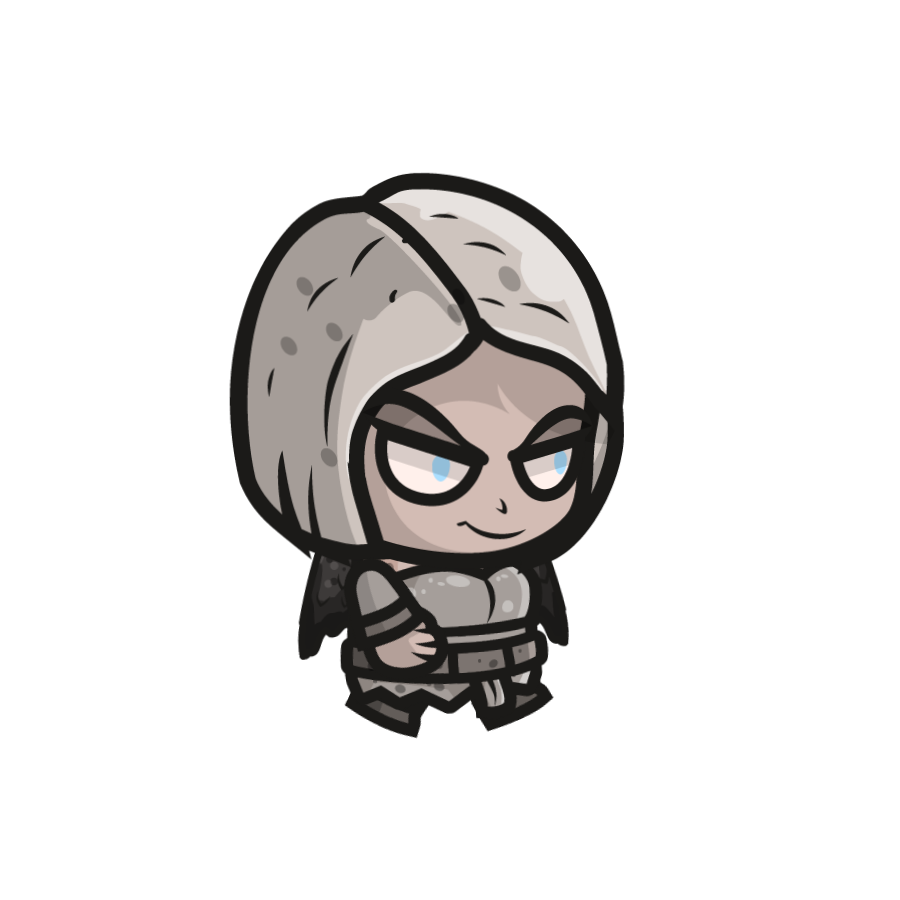
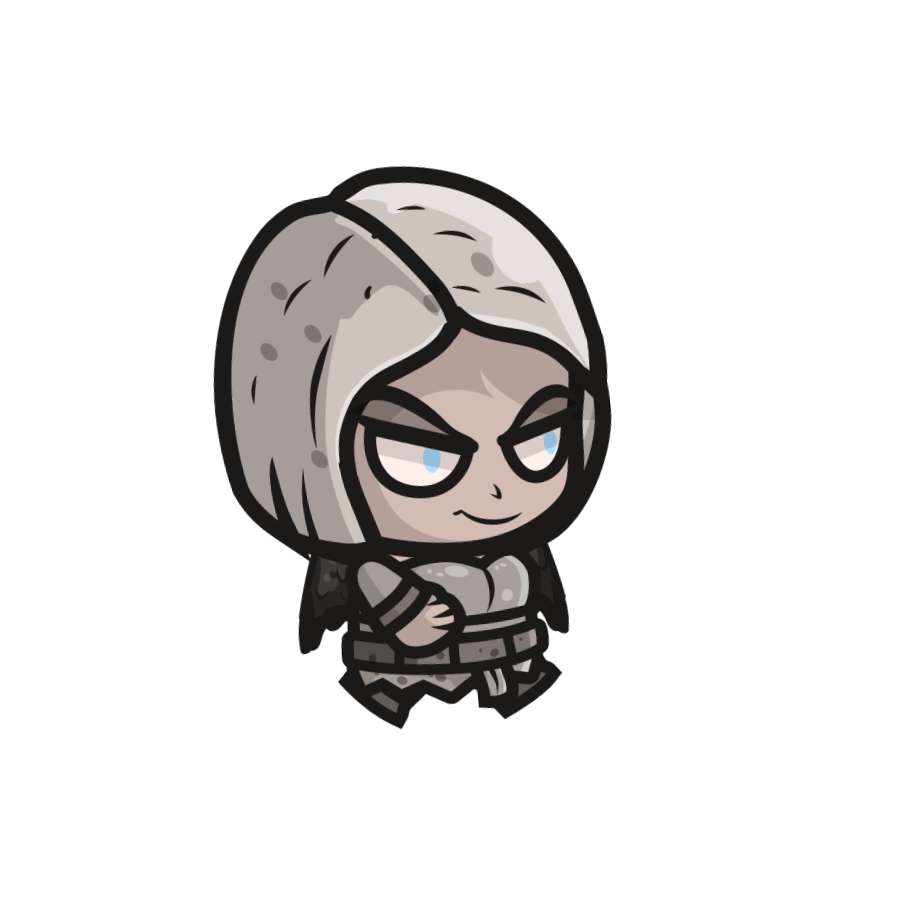
- added fallens3

Changed region(s): [[0.2178, 0.1867, 0.7156, 0.84]]

diff --git a/src/main/java/com/khryniewicki/projectX/game/heroes/character/fallens/Fallen2.java b/src/main/java/com/khryniewicki/projectX/game/heroes/character/fallens/Fallen2.java
@@ -37,12 +37,12 @@ public class Fallen2 extends SuperHero {
 
     @Override
     public void setProperties() {
-        setName("Fallen1");
+        setName("Fallen2");
         setHero_standard_offset(0.2f);
         setHero_top_offset(0.5f);
         setMana(100);
         setLife(100);
-
+        setSIZE(1.2F);
     }
 
 

diff --git a/src/main/java/com/khryniewicki/projectX/game/heroes/character/fallens/Fallen3.java b/src/main/java/com/khryniewicki/projectX/game/heroes/character/fallens/Fallen3.java
@@ -37,12 +37,12 @@ public class Fallen3 extends SuperHero {
 
     @Override
     public void setProperties() {
-        setName("Fallen1");
+        setName("Fallen3");
         setHero_standard_offset(0.2f);
         setHero_top_offset(0.5f);
         setMana(100);
         setLife(100);
-
+        setSIZE(1.2F);
     }
 
 

diff --git a/src/main/java/com/khryniewicki/projectX/game/heroes/character/fallens/Fallen1.java b/src/main/java/com/khryniewicki/projectX/game/heroes/character/fallens/Fallen1.java
@@ -42,7 +42,7 @@ public class Fallen1 extends SuperHero {
         setHero_top_offset(0.5f);
         setMana(100);
         setLife(100);
-
+        setSIZE(1.2F);
     }
 
 
